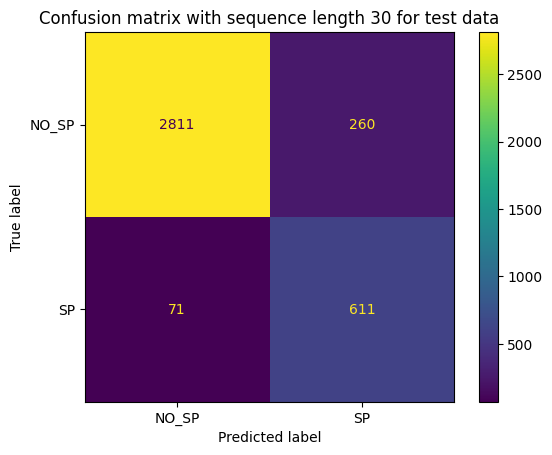
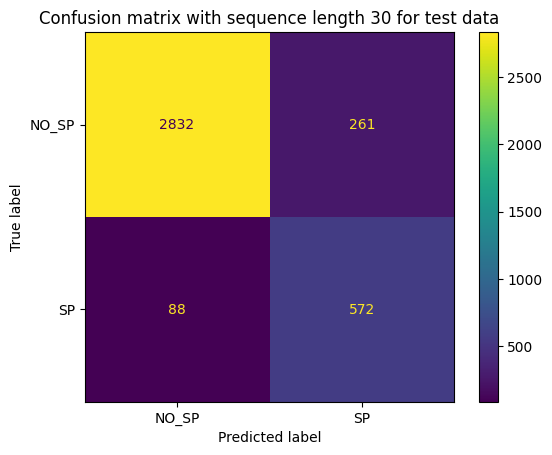
changed cat/dog to NO_SP/SP labels

diff --git a/prediction/keras_classifier.py b/prediction/keras_classifier.py
@@ -107,7 +107,7 @@ class KerasClassifier:
                                        [np.argmax(x) for x in
                                         self.predictions])
         sns.heatmap(conf_matrix, annot=True, cmap="rocket", fmt='d',
-                    xticklabels=['cat', 'dog'], yticklabels=['cat', 'dog'])
+                    xticklabels=['NO_SP', 'SP'], yticklabels=['NO_SP', 'SP'])
         plt.title("Confusion matrix for test set")
 
         plt.savefig(os.path.join(
